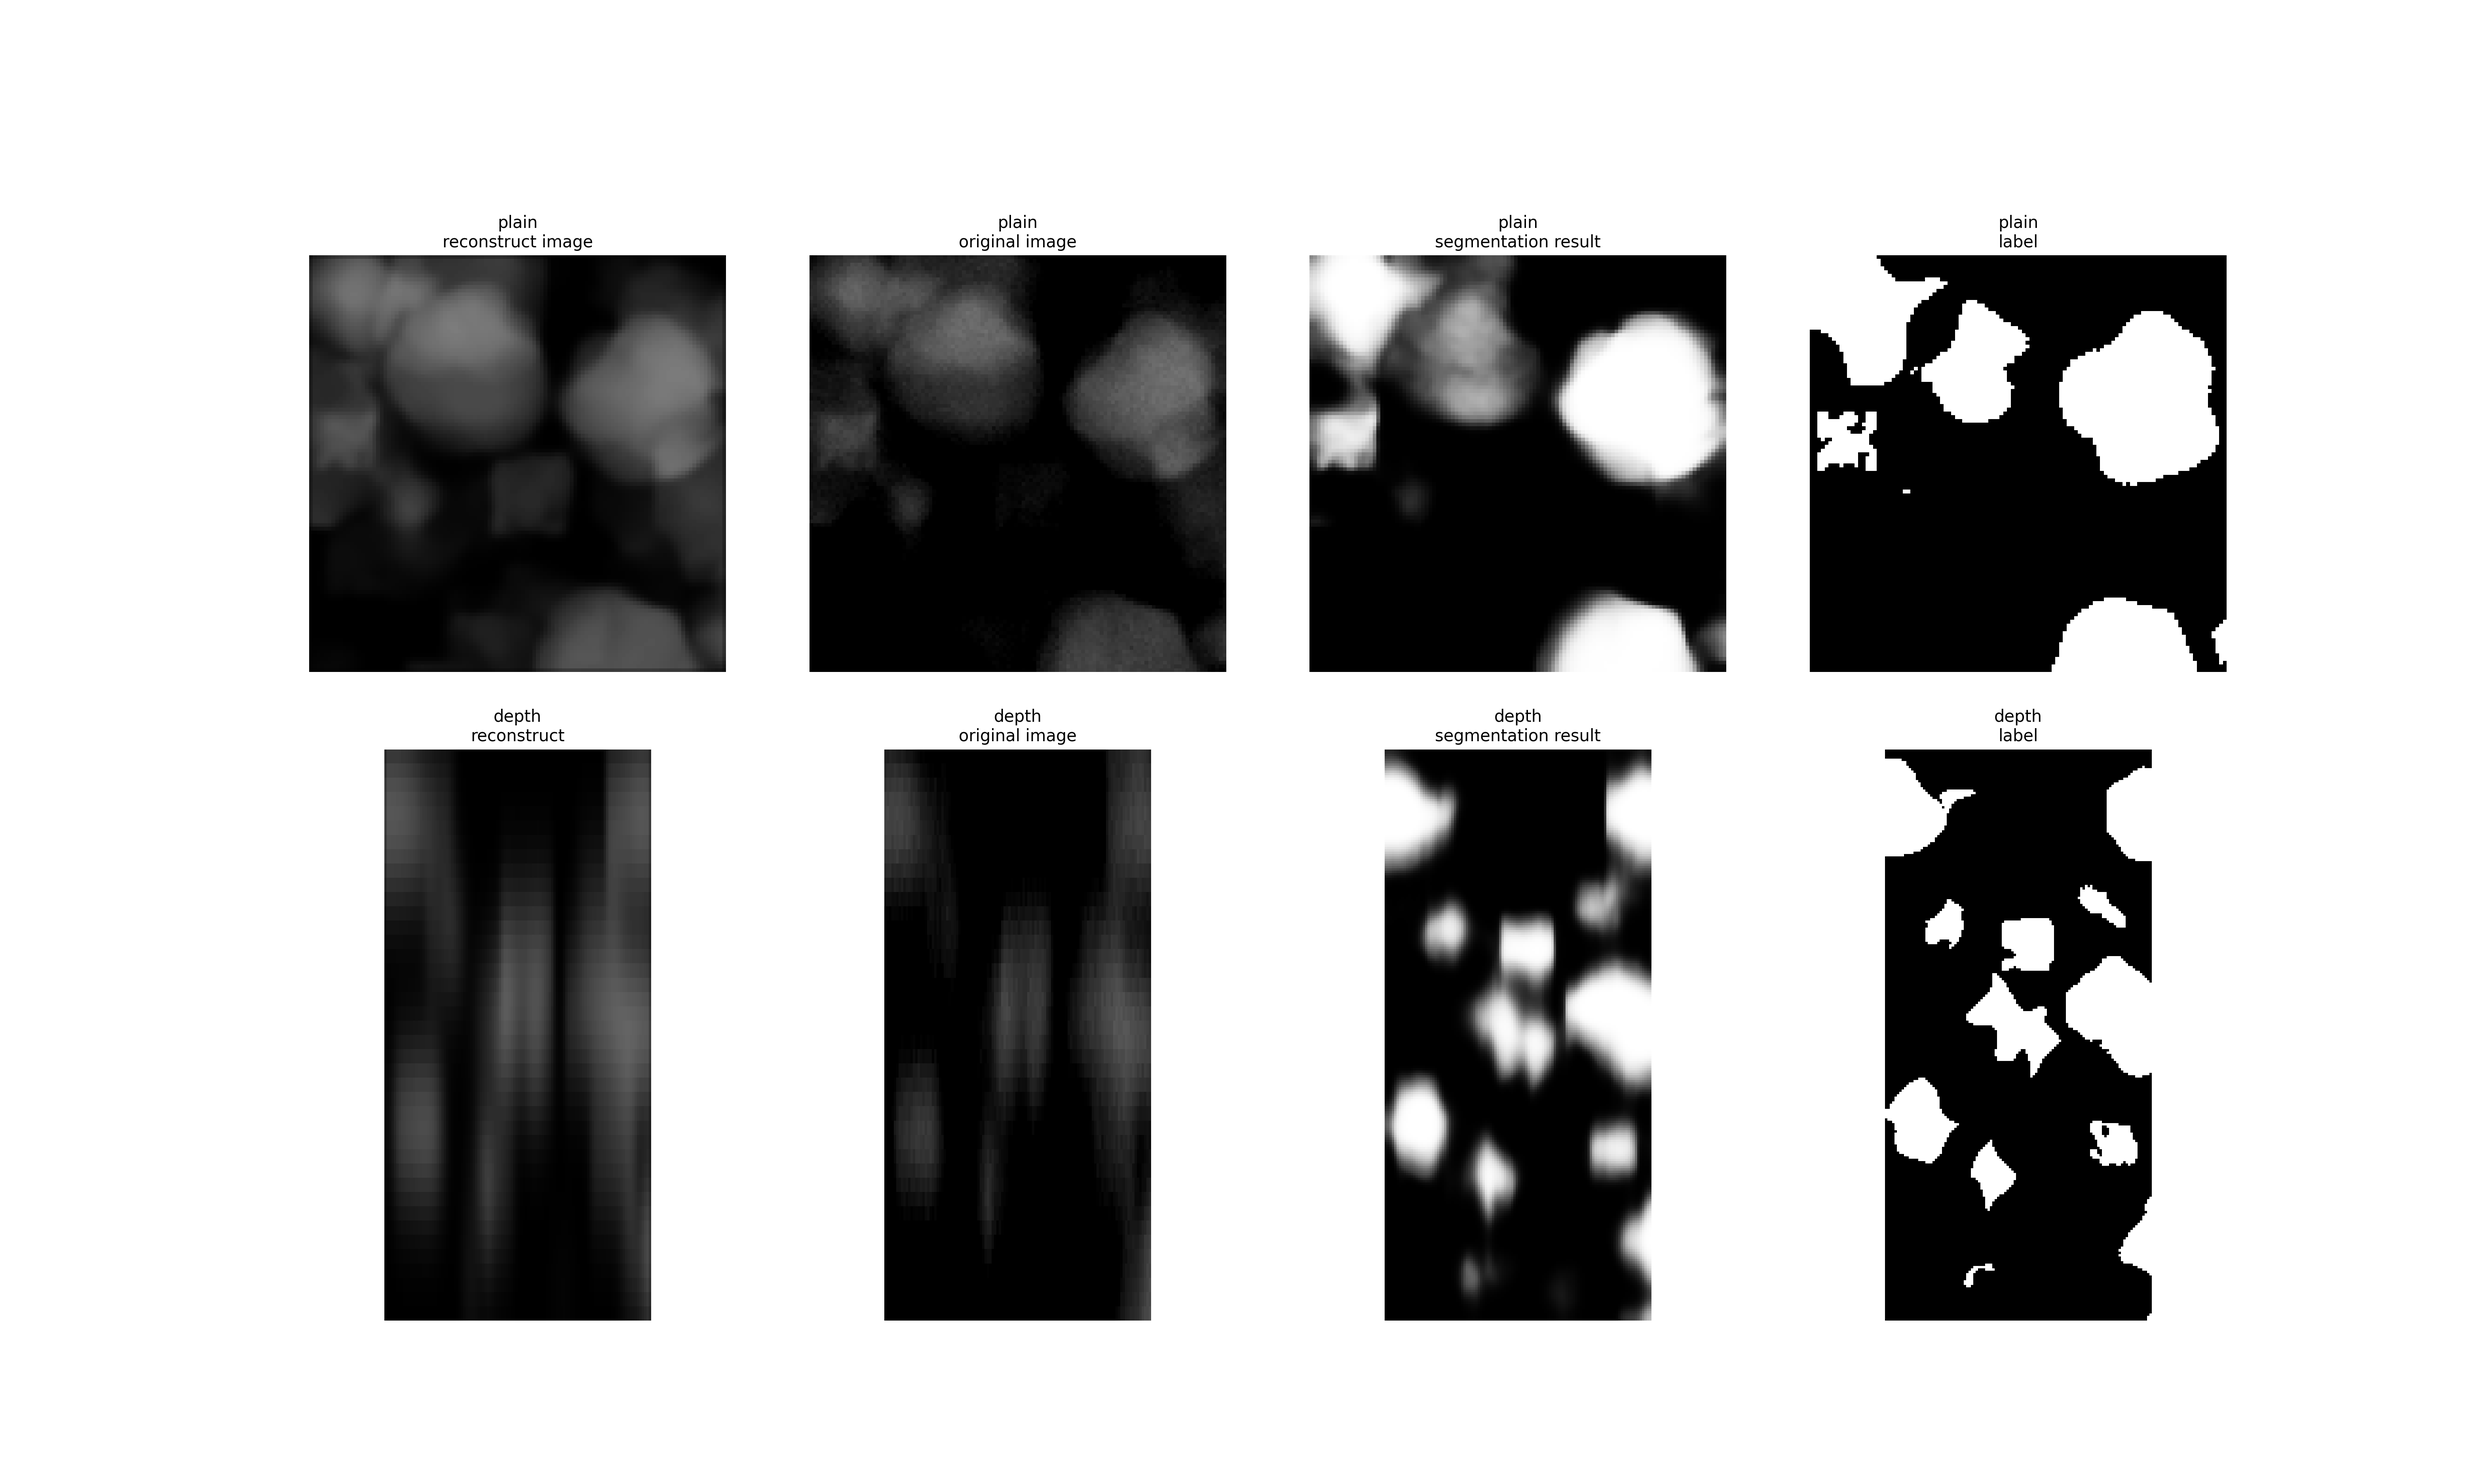
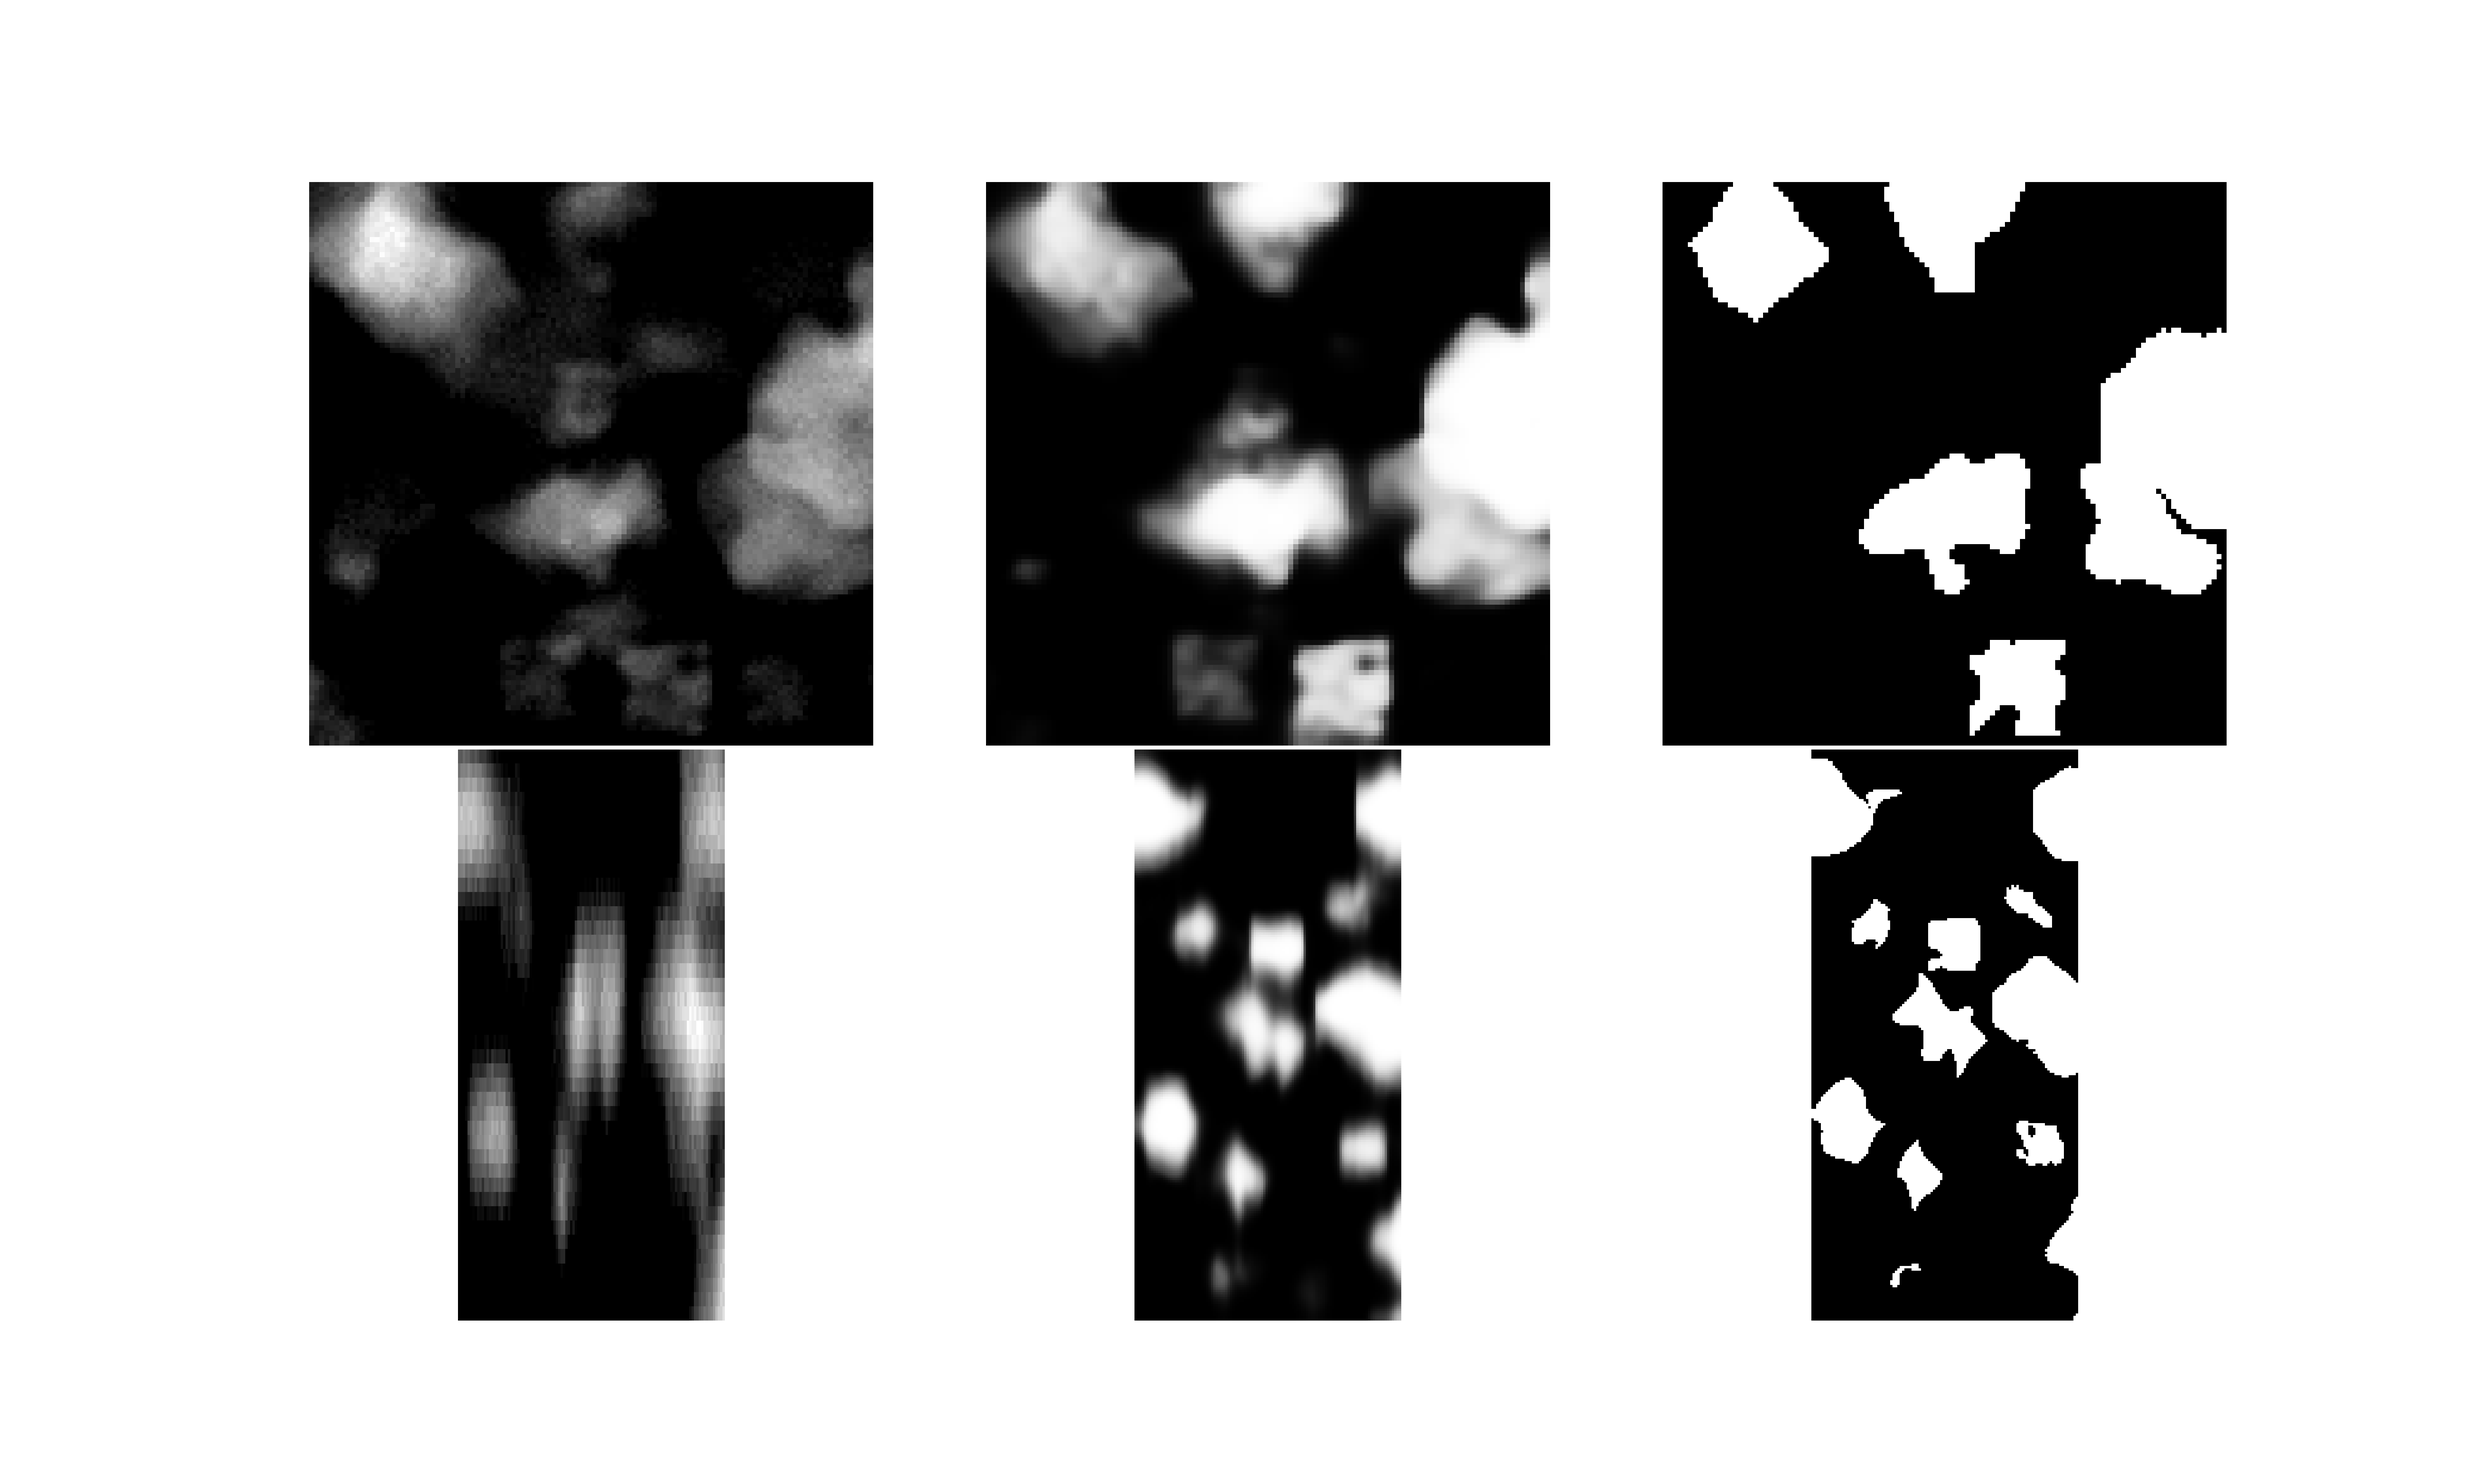
opticsbased start

diff --git a/inference.py b/inference.py
@@ -54,7 +54,7 @@ JNet = model.JNet(hidden_channels_list  = hidden_channels_list ,
                   )
 JNet = JNet.to(device = device)
 JNet.set_tau(1)
-j = 60
+j = 120
 i = 60
 j_s = j // scale
 
@@ -70,30 +70,30 @@ for n in range(0,1):
     reconst = reconst.squeeze(0).detach().cpu().numpy()
 
     fig = plt.figure(figsize=(25, 15))
-    ax1 = fig.add_subplot(241)
-    ax2 = fig.add_subplot(242)
-    ax3 = fig.add_subplot(243)
-    ax4 = fig.add_subplot(244)
-    ax5 = fig.add_subplot(245)
-    ax6 = fig.add_subplot(246)
-    ax7 = fig.add_subplot(247)
-    ax8 = fig.add_subplot(248)
+    ax1 = fig.add_subplot(231)
+    ax2 = fig.add_subplot(232)
+    ax3 = fig.add_subplot(233)
+    ax4 = fig.add_subplot(234)
+    ax5 = fig.add_subplot(235)
+    ax6 = fig.add_subplot(236)
+    #ax7 = fig.add_subplot(247)
+    #ax8 = fig.add_subplot(248)
     ax1.set_axis_off()
     ax2.set_axis_off()
     ax3.set_axis_off()
     ax4.set_axis_off()
     ax5.set_axis_off()
     ax6.set_axis_off()
-    ax7.set_axis_off()
-    ax8.set_axis_off()
-    ax1.set_title('plain\nreconstruct image')
-    ax2.set_title('plain\noriginal image')
-    ax3.set_title('plain\nsegmentation result')
-    ax4.set_title('plain\nlabel')
-    ax5.set_title('depth\nreconstruct')
-    ax6.set_title('depth\noriginal image')
-    ax7.set_title('depth\nsegmentation result')
-    ax8.set_title('depth\nlabel')
+    #ax7.set_axis_off()
+    #ax8.set_axis_off()
+    #ax1.set_title('plain\nreconstruct image')
+    #ax2.set_title('plain\noriginal image')
+    #ax3.set_title('plain\nsegmentation result')
+    #ax4.set_title('plain\nlabel')
+    #ax5.set_title('depth\nreconstruct')
+    #ax6.set_title('depth\noriginal image')
+    #ax7.set_title('depth\nsegmentation result')
+    #ax8.set_title('depth\nlabel')
     plt.subplots_adjust(hspace=-0.0)
     if partial is not None:
         ax1.imshow(reconst[0, partial[0]+j_s, :, :],
@@ -113,21 +113,21 @@ for n in range(0,1):
         ax8.imshow(label[0, partial[0]:partial[1], i, :].to(device='cpu'),
                 cmap='gray', vmin=0.0, vmax=1.0, aspect=1)
     else:
-        ax1.imshow(reconst[0, j_s, :, :],
+        #ax1.imshow(reconst[0, j_s, :, :],
+        #        cmap='gray', vmin=0.0, vmax=1.0, aspect=1)
+        ax1.imshow(image[0, j_s, :, :].to(device='cpu'),
+                cmap='gray', vmin=0.0, aspect=1)
+        ax2.imshow(output[0, 0, j, :, :],
                 cmap='gray', vmin=0.0, vmax=1.0, aspect=1)
-        ax2.imshow(image[0, j_s, :, :].to(device='cpu'),
+        ax3.imshow(label[0, j, :, :].to(device='cpu'),
                 cmap='gray', vmin=0.0, vmax=1.0, aspect=1)
-        ax3.imshow(output[0, 0, j, :, :],
+        #ax5.imshow(reconst[0, :, i, :],
+        #        cmap='gray', vmin=0.0, vmax=1.0, aspect=scale)
+        ax4.imshow(image[0, :, i, :].to(device='cpu'),
+                cmap='gray', vmin=0.0, aspect=scale)
+        ax5.imshow(output[0, 0, :, i, :],
                 cmap='gray', vmin=0.0, vmax=1.0, aspect=1)
-        ax4.imshow(label[0, j, :, :].to(device='cpu'),
-                cmap='gray', vmin=0.0, vmax=1.0, aspect=1)
-        ax5.imshow(reconst[0, :, i, :],
-                cmap='gray', vmin=0.0, vmax=1.0, aspect=scale)
-        ax6.imshow(image[0, :, i, :].to(device='cpu'),
-                cmap='gray', vmin=0.0, vmax=1.0, aspect=scale)
-        ax7.imshow(output[0, 0, :, i, :],
-                cmap='gray', vmin=0.0, vmax=1.0, aspect=1)
-        ax8.imshow(label[0, :, i, :].to(device='cpu'),
+        ax6.imshow(label[0, :, i, :].to(device='cpu'),
                 cmap='gray', vmin=0.0, vmax=1.0, aspect=1)
     plt.savefig(f'result_psj/{model_name}_sim_result{n}.png', format='png', dpi=250)
     
